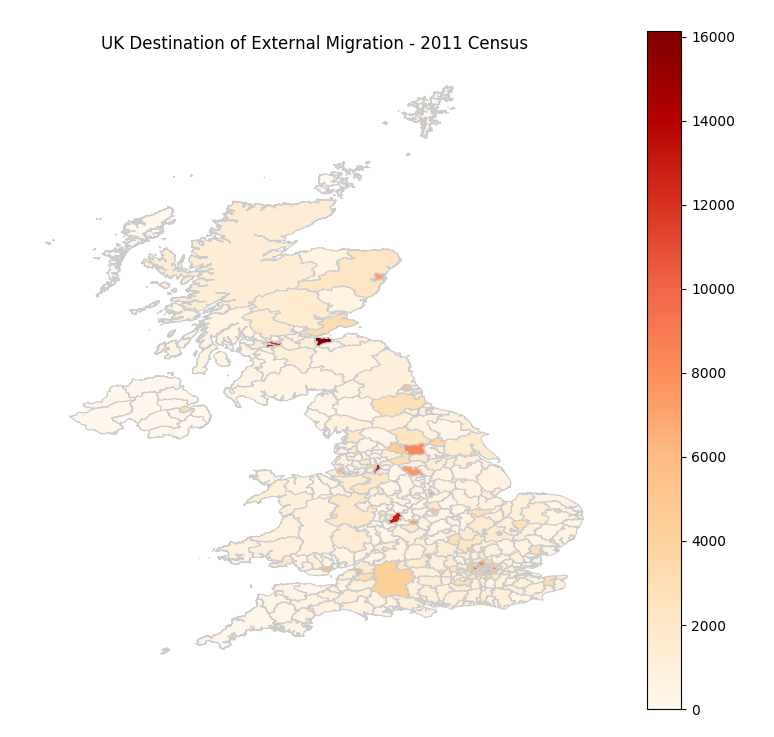
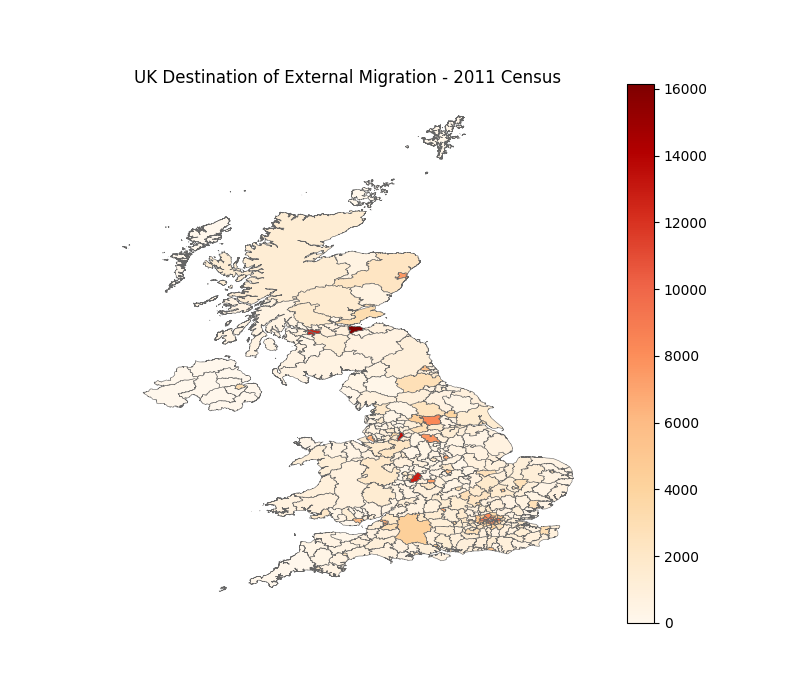
updating plots

Changed region(s): [[0.093, 0.03, 0.9612, 0.99], [0.124, 0.03, 0.7132, 0.24]]

diff --git a/scripts/utils.py b/scripts/utils.py
@@ -2,7 +2,7 @@ import pandas as pd
 import matplotlib.pyplot as plt
 import geopandas as gpd 
 
-def uk_plot(shp_path, var_name, title):
+def uk_plot(shp_path, var_name, title, cmap):
 
     map_df = gpd.read_file(shp_path)
     merged = map_df.set_index("lad17nm").join(pd.DataFrame(var_name)).fillna(value=0)
@@ -10,8 +10,8 @@ def uk_plot(shp_path, var_name, title):
     fig, ax = plt.subplots(1,1, figsize=(8,7))
     ax.axis('off')
     ax.set_title(title)
-    sm = plt.cm.ScalarMappable(cmap="OrRd", norm=plt.Normalize(vmin=min(merged[str(var_name)]),vmax=max(merged[str(var_name)])))
+    sm = plt.cm.ScalarMappable(cmap=cmap, norm=plt.Normalize(vmin=min(merged[str(var_name)]),vmax=max(merged[str(var_name)])))
     sm._A = []
     fig.colorbar(sm)
-    merged.plot(column=str(var_name), cmap='OrRd', linewidth=0.8, edgecolor='0.8', ax=ax)
+    merged.plot(column=str(var_name), cmap=cmap, linewidth=0.4, edgecolor='0.3', ax=ax)
     plt.show()

diff --git a/scripts/net_migration.py b/scripts/net_migration.py
@@ -44,7 +44,7 @@ def main():
     title = "Net Internal Migration - 2011 Census"
     # map_df = gpd.read_file("data/EW_LAD_shapefiles_2011/EW_LAD.shp")
     # merged = map_df.set_index("cmlad11nm").join(pd.DataFrame(net_migration)).fillna(value=0)
-    uk_plot(shp_path, var_name, title)
+    uk_plot(shp_path, var_name, title, cmap='coolwarm')
 
 if __name__ == "__main__":
     

diff --git a/scripts/external_migration.py b/scripts/external_migration.py
@@ -34,7 +34,7 @@ def main():
     shp_path = "data/UK_LAD_shapefiles_2017/UK_LAD.shp"
     var_name = total_in
     title = "UK Destination of External Migration - 2011 Census"
-    uk_plot(shp_path, var_name, title)
+    uk_plot(shp_path, var_name, title, cmap='OrRd')
 
 if __name__ == "__main__":
     
